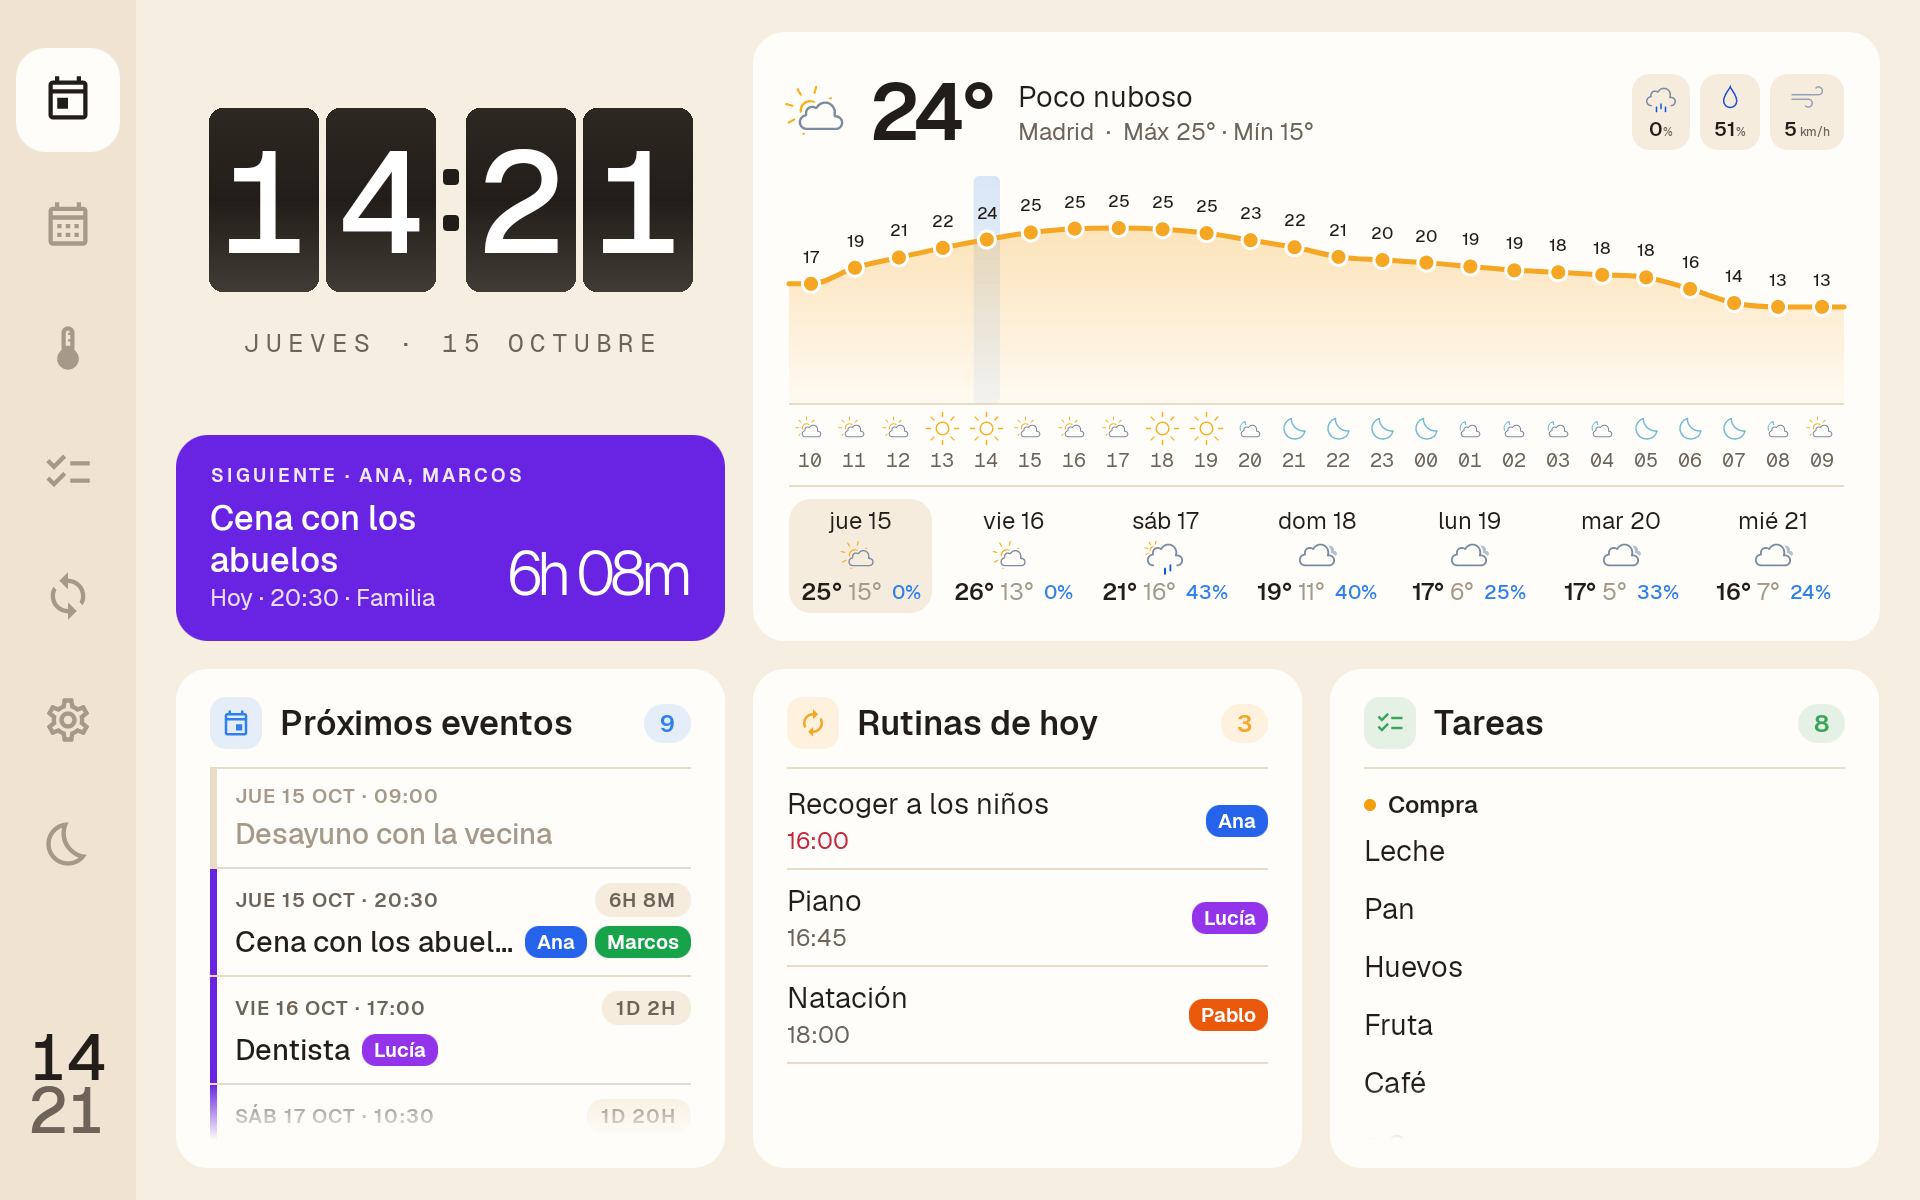
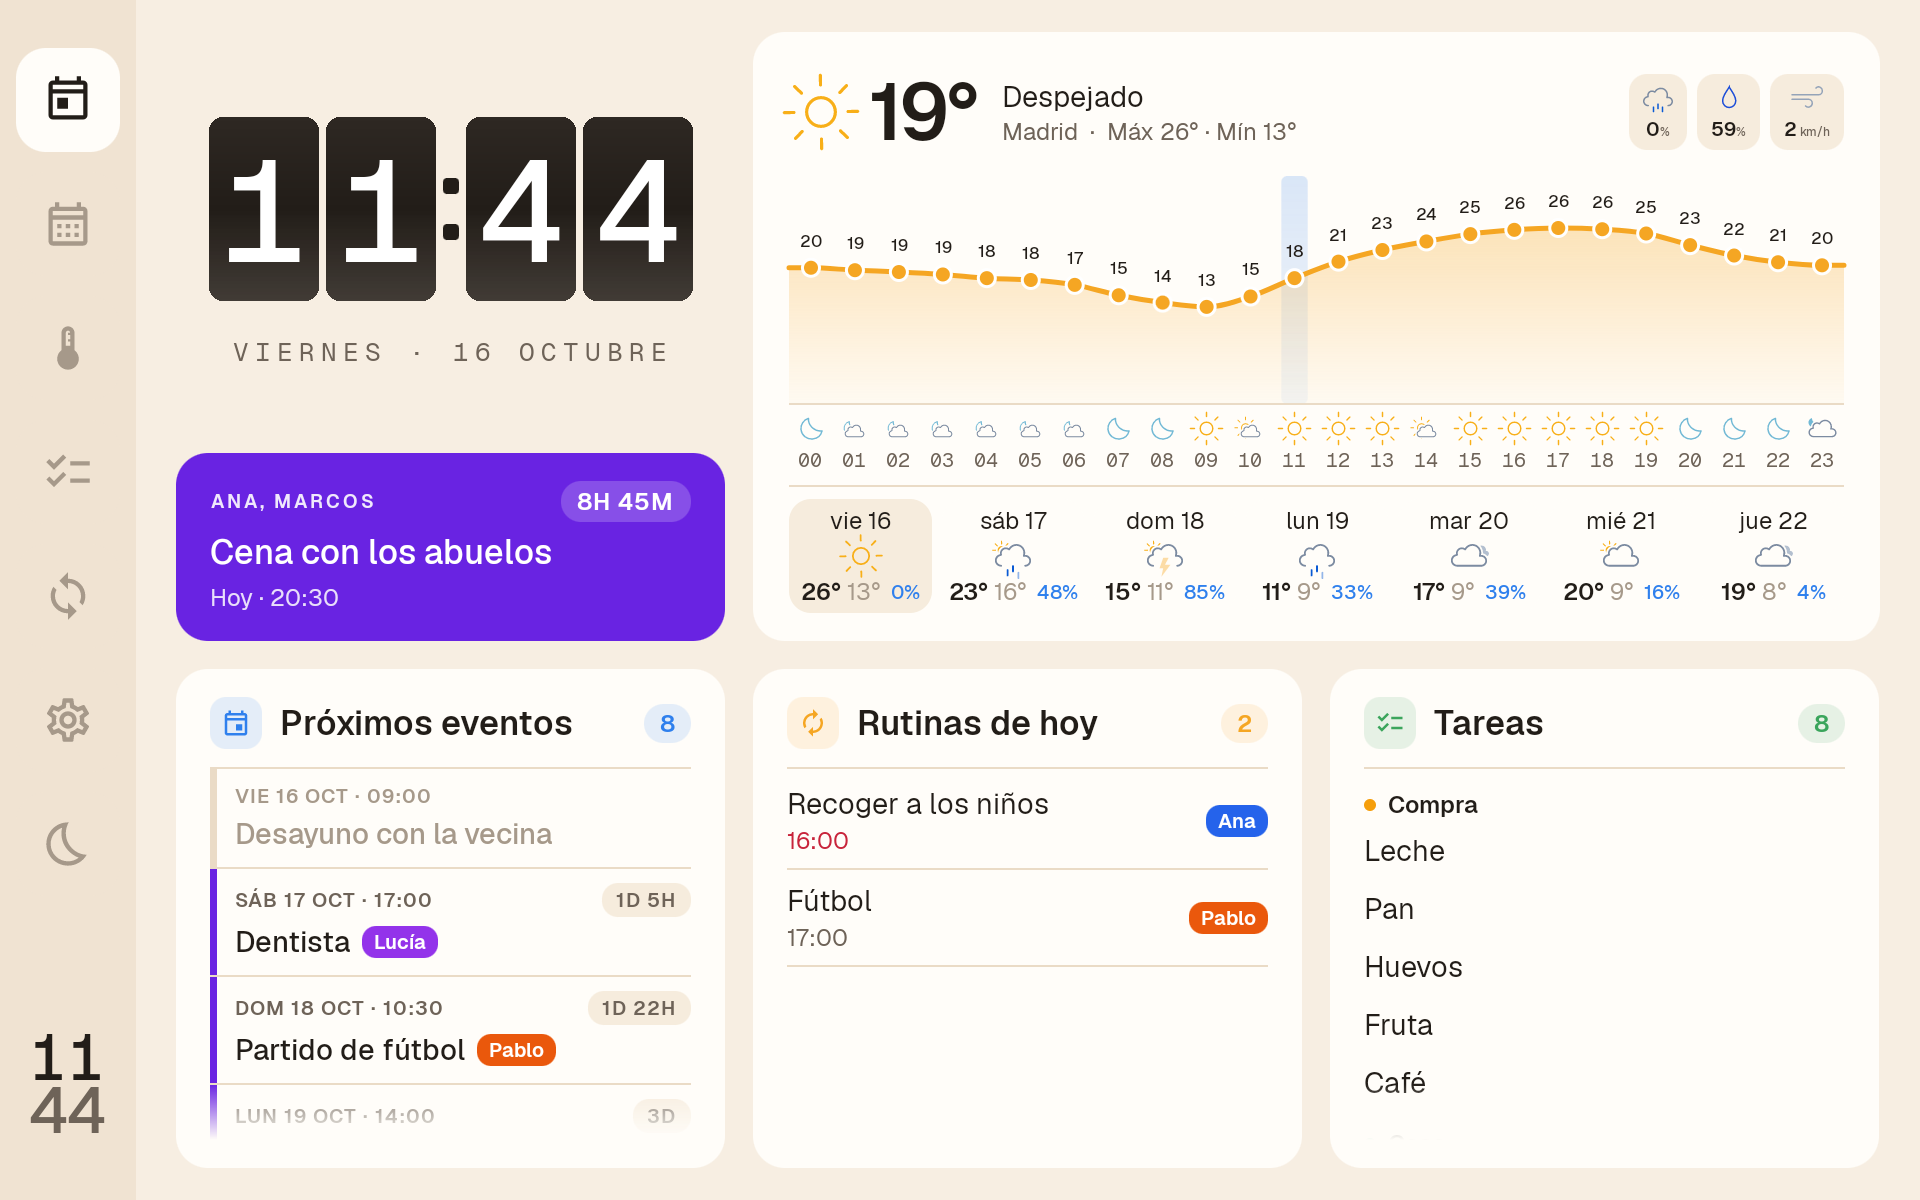
Hoy: la tarjeta del siguiente evento, más simple; capturas al día
- La tarjeta del siguiente evento lleva arriba sus personas y lo que falta en una
  píldora, con el mismo formato que la lista; sin el rótulo «Siguiente», sin el
  nombre del calendario y sin la cuenta atrás grande.
- Ese evento ya no se repite en la lista de próximos eventos.
- README y ARCHITECTURE: el tiempo de Hoy es el día entero, el reloj nocturno va en
  negrita con el icono en blanco, y capturas nuevas de Hoy y del reloj nocturno.

diff --git a/android/app/src/main/java/com/lito/planify/dashboard/ui/TodayScreen.kt b/android/app/src/main/java/com/lito/planify/dashboard/ui/TodayScreen.kt
@@ -98,7 +98,7 @@ private fun Card(modifier: Modifier, content: @Composable ColumnScope.() -> Unit
 private fun ClockColumn(state: UiState, modifier: Modifier) {
     val now = state.now
     val today = now.toLocalDate()
-    val next = state.content?.events.orEmpty().firstOrNull { !it.at.isBefore(now) }
+    val next = nextEvent(state.content?.events.orEmpty(), now)
     Column(modifier) {
         // Hora y fecha, centradas en el espacio que deja la tarjeta del siguiente evento
         Column(Modifier.fillMaxWidth().weight(1f), horizontalAlignment = Alignment.CenterHorizontally, verticalArrangement = Arrangement.Center) {
@@ -114,16 +114,16 @@ private fun ClockColumn(state: UiState, modifier: Modifier) {
     }
 }
 
-/** Próximo evento en una tarjeta del color de su calendario, con la cuenta atrás grande. */
+/** El siguiente evento: el primero que aún no ha empezado. Va en su tarjeta y no se repite en la lista de próximos. */
+private fun nextEvent(events: List<Event>, now: LocalDateTime): Event? = events.firstOrNull { !it.at.isBefore(now) }
+
+/**
+ * Próximo evento en una tarjeta del color de su calendario. Arriba, sus personas y, a la derecha, lo que falta en una
+ * píldora con el mismo formato que la lista de próximos eventos; debajo, el título y el día y la hora.
+ */
 @Composable
 private fun NextCard(event: Event, now: LocalDateTime) {
     val color = parseColor(event.calendar_color, Palette.Accent)
-    val minutes = Duration.between(now, event.at).toMinutes()
-    val big = when {
-        minutes < 60 -> "${minutes.coerceAtLeast(0)} min"
-        minutes < 24 * 60 -> "${minutes / 60}h ${(minutes % 60).toString().padStart(2, '0')}m"
-        else -> null
-    }
     Column(
         verticalArrangement = Arrangement.spacedBy(8.dp),
         modifier = Modifier
@@ -131,29 +131,30 @@ private fun NextCard(event: Event, now: LocalDateTime) {
             .background(color, RoundedCornerShape(32.dp))
             .padding(horizontal = 34.dp, vertical = 28.dp)
     ) {
-        Text(
-            listOfNotNull("Siguiente", event.persons?.joinToString(", ") { it.name }?.takeIf { it.isNotEmpty() }).joinToString(" · ").uppercase(Spanish),
-            style = Type.Label.copy(color = Color.White.copy(alpha = 0.9f)),
-            maxLines = 1,
-            overflow = TextOverflow.Ellipsis
-        )
-        Row(verticalAlignment = Alignment.Bottom) {
-            Column(Modifier.weight(1f)) {
-                Text(event.title, style = Type.Large.copy(color = Color.White, fontWeight = FontWeight.Medium), maxLines = 2, overflow = TextOverflow.Ellipsis)
-                Text(
-                    "${relativeDay(event.at.toLocalDate(), now.toLocalDate())} · ${event.at.format(HourMinute)}${event.calendar_name?.let { " · $it" } ?: ""}",
-                    style = Type.Small.copy(color = Color.White.copy(alpha = 0.85f)),
-                    maxLines = 1
-                )
-            }
-            if (big != null) {
-                Text(
-                    big,
-                    style = Type.Huge.copy(color = Color.White, fontWeight = FontWeight.Light, fontSize = Type.Title.fontSize * 1.3f, lineHeight = Type.Title.fontSize * 1.3f),
-                    modifier = Modifier.padding(start = 16.dp)
-                )
-            }
+        Row(verticalAlignment = Alignment.CenterVertically) {
+            Text(
+                event.persons.orEmpty().joinToString(", ") { it.name }.uppercase(Spanish),
+                style = Type.Label.copy(color = Color.White.copy(alpha = 0.9f)),
+                maxLines = 1,
+                overflow = TextOverflow.Ellipsis,
+                modifier = Modifier.weight(1f)
+            )
+            Text(
+                relativeBadge(now, event.at),
+                style = Type.Small.copy(color = Color.White, fontWeight = FontWeight.SemiBold, letterSpacing = 1.sp),
+                maxLines = 1,
+                modifier = Modifier
+                    .padding(start = 16.dp)
+                    .background(Color.White.copy(alpha = 0.2f), RoundedCornerShape(20.dp))
+                    .padding(horizontal = 16.dp, vertical = 5.dp)
+            )
         }
+        Text(event.title, style = Type.Large.copy(color = Color.White, fontWeight = FontWeight.Medium), maxLines = 2, overflow = TextOverflow.Ellipsis)
+        Text(
+            "${relativeDay(event.at.toLocalDate(), now.toLocalDate())} · ${event.at.format(HourMinute)}",
+            style = Type.Small.copy(color = Color.White.copy(alpha = 0.85f)),
+            maxLines = 1
+        )
     }
 }
 
@@ -161,12 +162,15 @@ private fun NextCard(event: Event, now: LocalDateTime) {
 
 /**
  * Próximos eventos con el formato del widget de la app: barra del color del calendario, "MIÉ 14 OCT · 16:00"
- * con el tiempo que falta en una píldora, y el título debajo. Los ya pasados de hoy, en gris.
+ * con el tiempo que falta en una píldora, y el título debajo. Los ya pasados de hoy, en gris. Sin el siguiente, que ya
+ * está en su tarjeta.
  */
 @Composable
 private fun EventsCard(state: UiState, modifier: Modifier) {
     val now = state.now
-    val events = state.content?.events.orEmpty()
+    val all = state.content?.events.orEmpty()
+    val next = nextEvent(all, now)
+    val events = all.filter { it !== next }
     Card(modifier) {
         CardHeader("Próximos eventos", Icons.Outlined.Event, Palette.Rain, count = events.count { !it.at.isBefore(now) })
         if (events.isEmpty()) {

diff --git a/docs/ARCHITECTURE.md b/docs/ARCHITECTURE.md
@@ -9,10 +9,10 @@ La barra lateral izquierda tiene arriba, solo con iconos, Hoy, Calendario, Tiemp
 Sin sesión iniciada se muestra el login (icono de Planify y formulario, centrados). Si no hay Internet, en su lugar aparece "Esperando conexión a Internet…" con "Ir a Ajustes" (ajustes de Wi-Fi), y el formulario aparece solo cuando llega la red.
 
 - **Hoy:** rejilla de 3 columnas en dos filas (55 % y 45 % del alto).
-  - Arriba, en 1/3, la hora y la fecha centradas y el **siguiente** evento (tarjeta del color de su calendario, con cuenta atrás). En 2/3, la **tarjeta del tiempo**: icono, temperatura y estado; lluvia del día, humedad y viento como iconos con su valor (Meteocons estáticos); la curva hora a hora de las 4 horas anteriores a las 19 siguientes (la hora actual marcada con una banda azul translúcida; la temperatura de todas las horas, pequeña y sin «°») con barras de probabilidad de lluvia solo donde llueve; debajo, el icono del tiempo de cada hora y, abajo del todo, la hora; y, separados por una línea, los días en columnas, que se deslizan para ver la semana siguiente (vuelven a la primera a los 2 minutos). Al tocar un día, la cabecera y la curva pasan a ese día de 00 a 23 h; tocarlo otra vez, o tocar hoy, vuelve a ahora (y vuelve solo a los 2 minutos).
+  - Arriba, en 1/3, la hora y la fecha centradas y el **siguiente** evento (tarjeta del color de su calendario: sus personas y, a la derecha, lo que falta en una píldora, como en la lista de próximos eventos; debajo, el título y el día y la hora). Ese evento no se repite en la lista de próximos eventos. En 2/3, la **tarjeta del tiempo**: icono, temperatura y estado; lluvia del día, humedad y viento como iconos con su valor (Meteocons estáticos); la curva hora a hora del día de hoy, de 00 a 23 h (la hora actual marcada con una banda azul translúcida; la temperatura de todas las horas, pequeña y sin «°») con barras de probabilidad de lluvia solo donde llueve; debajo, el icono del tiempo de cada hora y, abajo del todo, la hora; y, separados por una línea, los días en columnas, que se deslizan para ver la semana siguiente (vuelven a la primera a los 2 minutos). Al tocar un día, la cabecera y la curva pasan a ese día; tocarlo otra vez, o tocar hoy, vuelve a hoy (y vuelve solo a los 2 minutos).
   - Abajo, **próximos eventos** con el formato del widget de la app (barra de color, "MIÉ 14 OCT · 16:00" con el tiempo que falta en una píldora, título y personas; los pasados en gris), **rutinas de hoy** (la lista, con la siguiente resaltada y las pasadas atenuadas) y **tareas** por lista, sin casillas porque no se pueden marcar.
 - **Calendario:** semanas de lunes a domingo, deslizando a izquierda y derecha (un año hacia cada lado; "Volver a hoy" regresa a la actual). 7 columnas. La cabecera de cada día mide siempre lo mismo: día y número con el icono del tiempo a la derecha, y debajo mín / máx · lluvia (0 % si no llueve). Luego los eventos y, aparte, una banda de rutinas (hora y colores de las personas arriba, nombre debajo); los días pasados, atenuados. Cada semana se descarga al mostrarla, junto con las vecinas. Abajo, la leyenda de personas.
-- **Tiempo:** dos páginas que se deslizan. La primera es la tarjeta del tiempo a pantalla completa: las mismas 24 horas que en Hoy (de 4 antes a 19 después), con el icono de cada hora encima de la hora, y 7 días. La segunda, la **semana siguiente** (días 8 a 14): gráfica de máximas y mínimas, lluvia (% y mm) y viento, y las columnas de cada día. En las dos páginas, tocar un día abre sus 24 horas (en la segunda, en lugar de la gráfica semanal) y tocarlo otra vez lo cierra.
+- **Tiempo:** dos páginas que se deslizan. La primera es la tarjeta del tiempo a pantalla completa: 24 horas desde 4 antes de la actual hasta 19 después (en Hoy, en cambio, el día de hoy entero), con el icono de cada hora encima de la hora, y 7 días. La segunda, la **semana siguiente** (días 8 a 14): gráfica de máximas y mínimas, lluvia (% y mm) y viento, y las columnas de cada día. En las dos páginas, tocar un día abre sus 24 horas (en la segunda, en lugar de la gráfica semanal) y tocarlo otra vez lo cierra.
 - **Iconos del tiempo:** [Meteocons](https://github.com/basmilius/meteocons) de Bas Milius (estilo *line*, licencia MIT, en `third_party/meteocons/`), uno por código WMO de Open-Meteo, de día o de noche. `scripts/meteocons.py` los descarga en la versión fijada, cambia los colores pensados para fondo oscuro (nubes, niebla y viento casi blancos) por tonos pizarra y los deja en `res/raw` (animados, Lottie) y `res/drawable` (los estáticos de la cabecera: nube con lluvia para la probabilidad, gota para la humedad y viento, con la unidad más pequeña). El código diario es el tiempo más significativo de todo el día (si hay niebla por la mañana, el día sale con niebla), así que la columna de hoy, en el tiempo y en el calendario, usa el tiempo de ahora, como la cabecera.
   - **Animados:** el icono de la cabecera y los de las columnas de días (Hoy, Tiempo y Calendario); la fila de horas, estática. Dibujar los Lottie en cada fotograma costaba 1–2 núcleos y subía el marco a 72 °C, así que cada icono se renderiza una vez en segundo plano a su tamaño exacto (90 fotogramas: su bucle de 6 s a 15 fps, caché de 48 MB) y animarlo es pintar un bitmap, todos sincronizados con un único reloj. Medido en el marco: Hoy 31 % de un núcleo, Tiempo 37 %, Calendario 25 %, sin pasar de 61 °C; la app ocupa unos 175 MB y quedan unos 400 MB libres. Con la pantalla apagada no se anima nada.
 - **Reloj:** en Hoy, un reloj de paletas (`FlipClock`): cada cifra en una placa grafito partida por la mitad y, al cambiar, la mitad de arriba cae y descubre la nueva (medio segundo, solo las cifras que cambian). En la barra lateral, las cifras se deslizan (`RollingText`). Las escalas de animación del sistema están a 0 en el marco, así que estas animaciones fuerzan su propia escala para verse.
@@ -20,7 +20,7 @@ Sin sesión iniciada se muestra el login (icono de Planify y formulario, centrad
 - **Tareas:** todas las listas del dashboard en columnas.
 
 Las tarjetas llevan una cabecera común (`CardHeader`): icono en un cuadro tintado, título y el total en una píldora del mismo color. En las gráficas del tiempo, los mm de lluvia van debajo del porcentaje. Las listas que no caben se desvanecen en el borde (`fadingScroll`) en vez de cortar el texto. Las tarjetas sin contenido muestran un estado vacío (`EmptyState`): icono en círculos del color de la tarjeta, título y una línea.
-- **Reloj nocturno** (`NightScreen`): fuera de horario, si no se ha elegido apagar la pantalla, la hora, la fecha y el tiempo de ahora sobre negro, estáticos, con el brillo al mínimo (`MainActivity` pone `screenBrightness` a 1/255 mientras `UiState.night`). Tocar enseña el dashboard 5 minutos (`peekUntil`). La luna de la barra lateral también lo activa si está el reloj nocturno (`nightNow`, hasta que se toque o hasta el siguiente encendido); si no, apaga la pantalla con `lockNow()`.
+- **Reloj nocturno** (`NightScreen`): fuera de horario, si no se ha elegido apagar la pantalla, la hora, la fecha y el tiempo de ahora en negrita y en blanco sobre negro (el icono del tiempo, teñido de blanco), estáticos, con el brillo al mínimo (`MainActivity` pone `screenBrightness` a 1/255 mientras `UiState.night`). Tocar enseña el dashboard 5 minutos (`peekUntil`). La luna de la barra lateral también lo activa si está el reloj nocturno (`nightNow`, hasta que se toque o hasta el siguiente encendido); si no, apaga la pantalla con `lockNow()`.
 - **Ajustes:**
   - tres columnas que caben sin desplazamiento;
   - ubicación (Open-Meteo); horario de pantalla; brillo y **Sistema** (estado del Wi-Fi, Wi-Fi, Ajustes de Android, Cerrar sesión y Apagar o reiniciar);

diff --git a/README.md b/README.md
@@ -35,7 +35,7 @@ Este proyecto está conectado con la aplicación y el backend de Planify:
 Todas las secciones de la app, en el emulador con las medidas del marco (1920×1200) y datos de demostración.
 
 ### Hoy
-La pantalla principal: reloj de paletas, el siguiente evento con cuenta atrás, el tiempo (ahora, las próximas 24 horas con la hora actual marcada y los próximos días), los próximos eventos, las rutinas de hoy y las tareas.
+La pantalla principal: reloj de paletas, el siguiente evento con cuenta atrás, el tiempo (ahora, el día de hoy de 00 a 23 h con la hora actual marcada y los próximos días), los próximos eventos, las rutinas de hoy y las tareas.
 
 <img src="docs/images/today.png" alt="Hoy" />
 
@@ -66,7 +66,7 @@ Ubicación del tiempo (búsqueda en Open-Meteo), horario de pantalla (entre sema
 <img src="docs/images/settings.png" alt="Ajustes" />
 
 ### Reloj nocturno
-Fuera de horario, o al pulsar la luna de la barra lateral, la pantalla no se apaga: queda la hora en grande, la fecha y el tiempo de ahora en blanco sobre negro, con la retroiluminación al mínimo (1 de 255). Tocarlo enseña el dashboard; fuera de horario, durante 5 minutos.
+Fuera de horario, o al pulsar la luna de la barra lateral, la pantalla no se apaga: queda la hora en grande, la fecha y el tiempo de ahora, en negrita y en blanco sobre negro (también el icono, que en color apenas se veía), con la retroiluminación al mínimo (1 de 255). Tocarlo enseña el dashboard; fuera de horario, durante 5 minutos.
 
 <img src="docs/images/night.png" alt="Reloj nocturno" />
 
@@ -269,7 +269,7 @@ Barra lateral con Hoy, Calendario, Tiempo, Tareas, sincronizar, Ajustes y apagar
 
 | Pantalla | Contenido |
 |---|---|
-| **Hoy** | Reloj de paletas (split-flap), el siguiente evento con cuenta atrás, el tiempo (ahora, 24 horas con la hora actual marcada y los próximos días, que se deslizan), próximos eventos, rutinas de hoy y tareas |
+| **Hoy** | Reloj de paletas (split-flap), el siguiente evento con cuenta atrás, el tiempo (ahora, el día de hoy de 00 a 23 h con la hora actual marcada y los próximos días, que se deslizan), próximos eventos, rutinas de hoy y tareas |
 | **Calendario** | Semana a semana (deslizando): el tiempo de cada día, los eventos, una banda aparte para las rutinas y los colores de cada persona |
 | **Tiempo** | 24 horas y 7 días; la semana siguiente en gráfica; tocar un día abre sus 24 horas con su cabecera |
 | **Tareas** | Todas las listas elegidas, en columnas |
